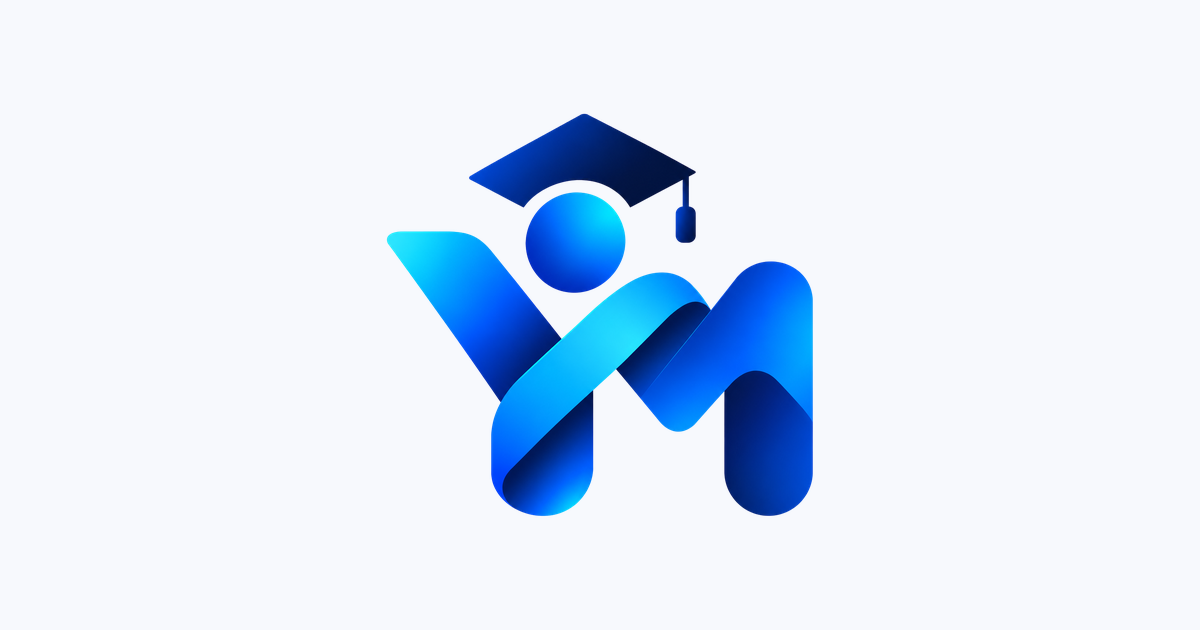
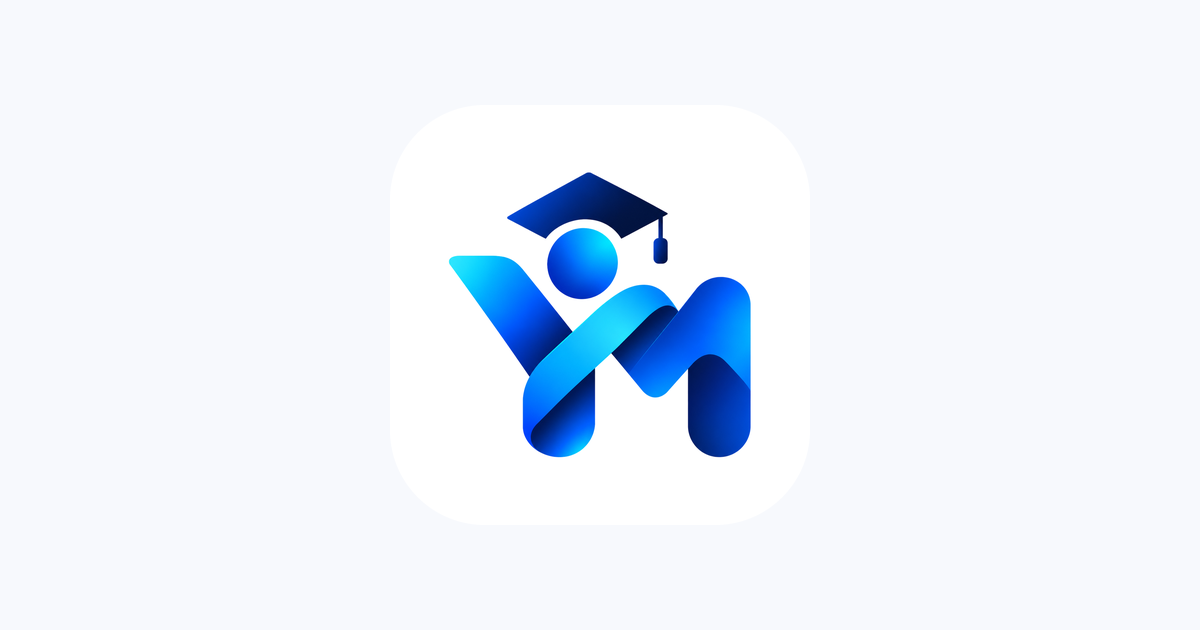
Put the mark on an opaque white tile so it stays visible
The transparent mark was washing out. Measured across its ink: the
artwork runs from near-white cyan #04FFFF to near-black navy #000345, so
no backdrop-free treatment holds all of it. Against a navy backing 61% of
the ink falls below 3:1 contrast; against white, 21%. Darker backings make
it worse, not better — the graduation cap disappears.

So white is baked in rather than assumed:

- icon.png / icon1.png / icon2.png and the navbar mark now render the
  artwork on an opaque rounded white tile, composited at 4x and
  downsampled so corners and edges stay clean at 32px
- apple-icon.png is square-cornered and edge-to-edge, since iOS applies
  its own mask
- the tile carries a hairline ring in the navbar so it does not disappear
  into the white header
- navbar mark grows 32px to 36px, which also helps the detail read
- mark-transparent.png keeps the untiled version for print and artwork
  with a controlled background

Side effect: the favicon now survives a dark browser tab bar, which the
transparent version did not.

Changed region(s): [[0.3083, 0.181, 0.6783, 0.8444]]

diff --git a/src/components/shared/logo.tsx b/src/components/shared/logo.tsx
@@ -3,18 +3,21 @@ import Link from 'next/link'
 import { cn } from '@/lib/utils'
 
 /**
- * The supplied mark (public/brand/mark.png) plus a live-text wordmark.
- * The wordmark is text rather than the raster so it stays crisp at every size
- * and reflows on a 360px screen. It follows the artwork's two-tone split:
- * "yours" in navy, "mentor.in" in brand blue.
+ * The mark sits on an opaque rounded white tile rather than floating
+ * transparent. The artwork runs the whole lightness range — near-white cyan
+ * (#04FFFF) through to near-black navy (#000345) — so on a dark surface the
+ * cap vanishes and on a tinted one the cyan washes out. Measured against a
+ * navy backing, 61% of the ink falls below 3:1; against white, 21%. White is
+ * the only backdrop that holds the whole mark, so it is baked in.
  *
- * public/brand/ also holds logo-horizontal.png, logo-stacked.png and
- * wordmark.png for places that need the full artwork (emails, social cards).
+ * A hairline ring keeps the tile from disappearing into a white navbar.
+ * public/brand/mark-transparent.png is the version without the tile, for
+ * print and dark-background artwork.
  */
 export function Logo({
   className,
   showWordmark = true,
-  size = 32,
+  size = 36,
 }: {
   className?: string
   showWordmark?: boolean
@@ -23,7 +26,7 @@ export function Logo({
   return (
     <Link
       href="/"
-      className={cn('flex items-center gap-2', className)}
+      className={cn('flex items-center gap-2.5', className)}
       aria-label="YoursMentor.in — home"
     >
       <Image
@@ -32,7 +35,8 @@ export function Logo({
         width={size}
         height={size}
         priority
-        className="shrink-0"
+        className="shrink-0 rounded-[22%] ring-1 ring-border"
+        style={{ width: size, height: size }}
       />
       {showWordmark && (
         <span className="text-lg font-extrabold leading-none tracking-tight">

diff --git a/CLAUDE.md b/CLAUDE.md
@@ -79,7 +79,14 @@ exposed to Tailwind through `@theme inline`.
 **Never hardcode a colour, radius or font.** Use the semantic token (`bg-surface`,
 `text-muted-foreground`, `rounded-[var(--radius-lg)]`).
 
-Brand assets live in `public/brand/`: `mark.png` (the YM figure, transparent),
+**The mark sits on an opaque rounded white tile, not transparent.** The artwork runs the
+whole lightness range — near-white cyan `#04FFFF` to near-black navy `#000345` — so there
+is no single backdrop-free treatment that holds it: measured against navy, 61% of the ink
+falls under 3:1; against white, 21%. White is baked in, with a hairline ring so the tile
+does not vanish into a white navbar. Use `mark-transparent.png` only on artwork you
+control the background of.
+
+Brand assets live in `public/brand/`: `mark.png` (the YM figure on its tile),
 `wordmark.png`, `logo-horizontal.png`, `logo-stacked.png` and `og-mark.png` (the social
 card). `favicon-source.svg` is the original file the mark was extracted from — it is not
 referenced by anything and can be deleted.
